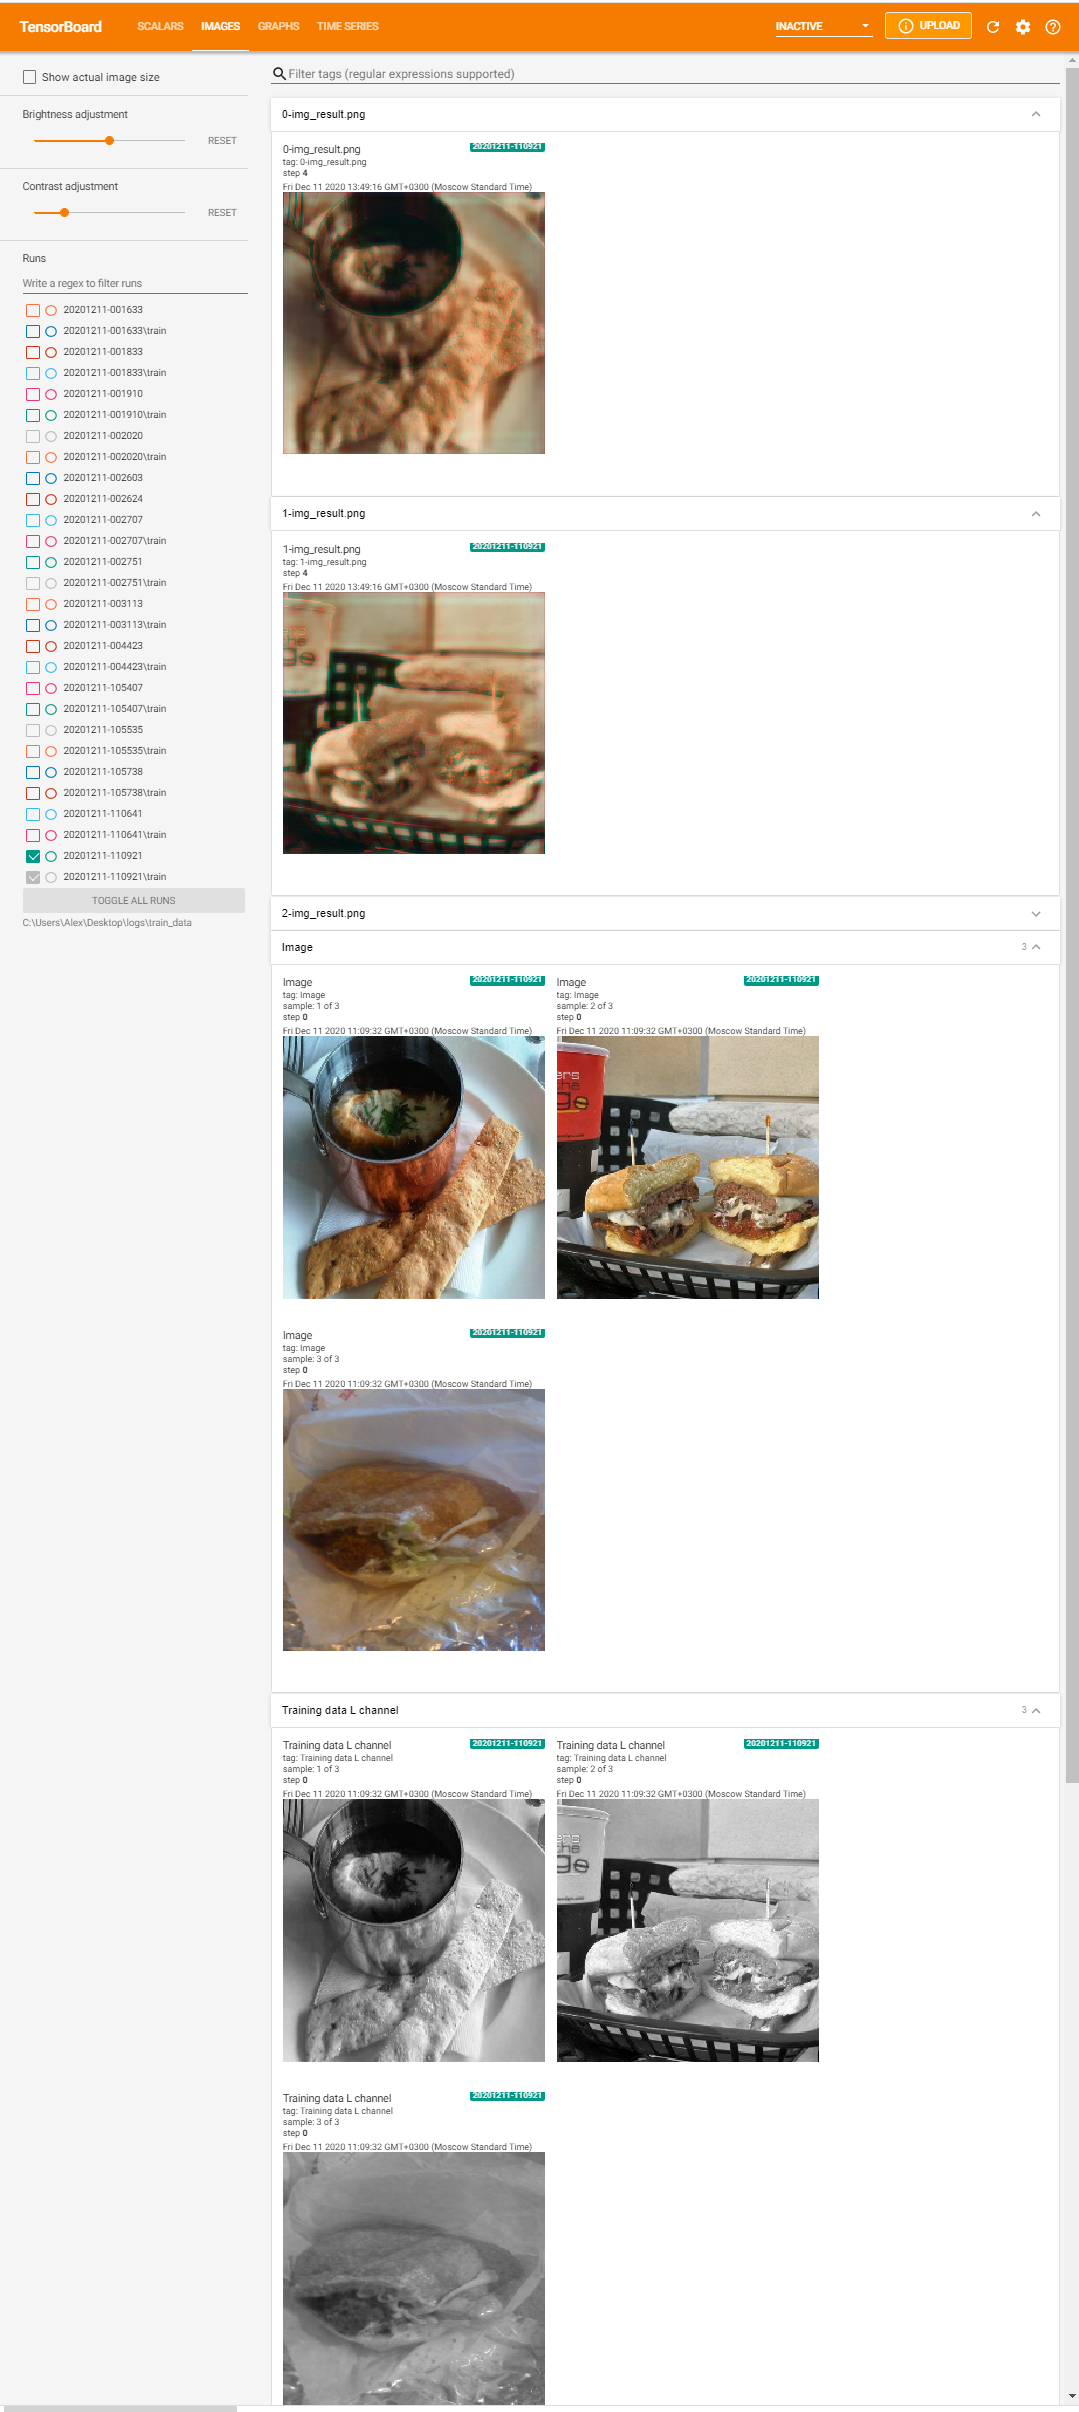
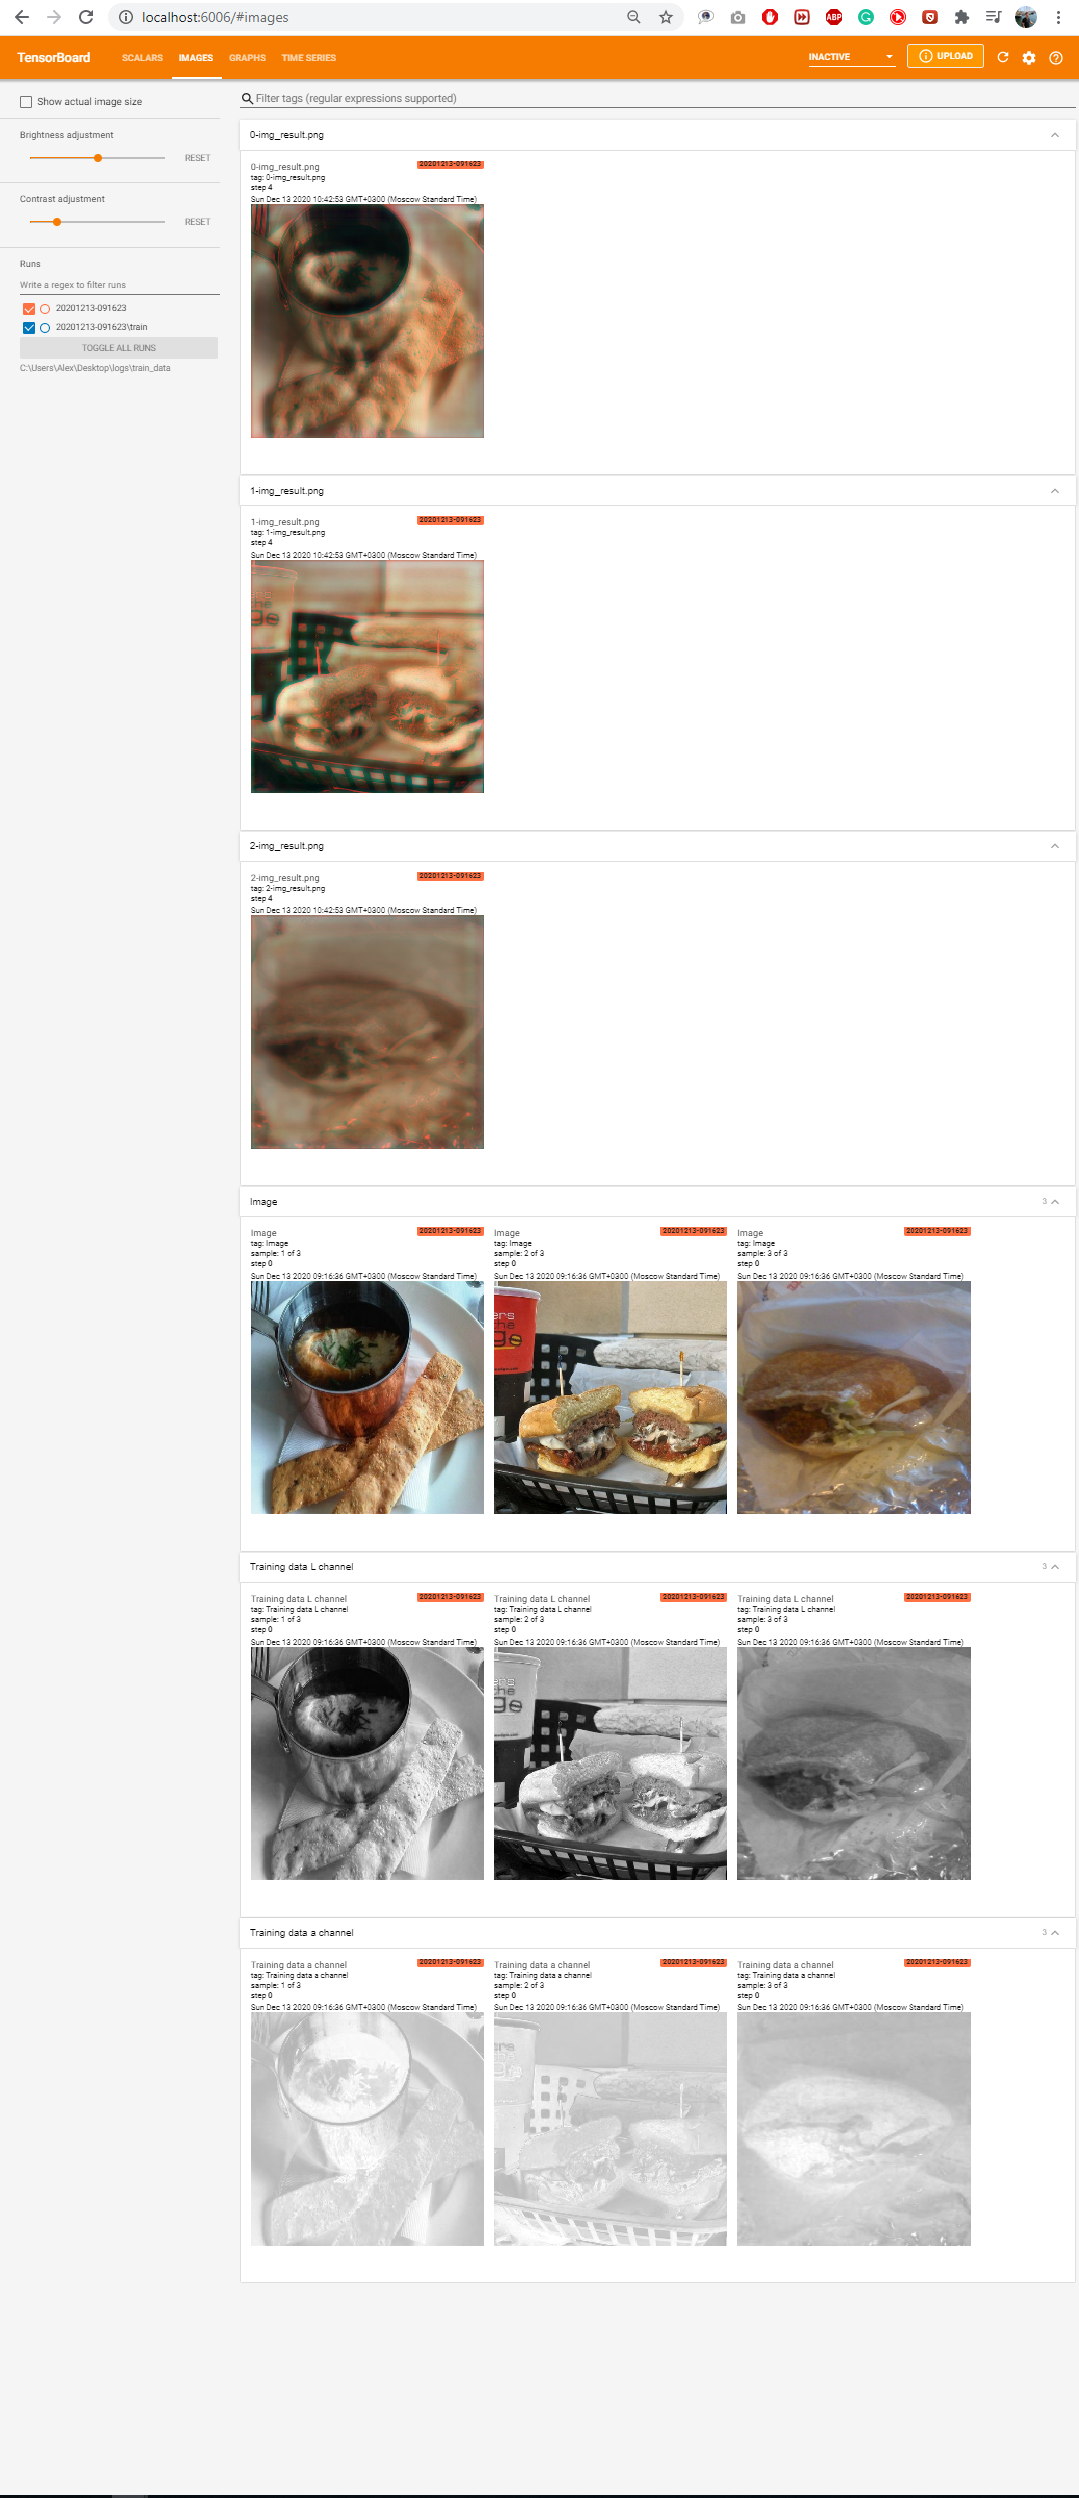
update images for lab2

diff --git a/lab2/src/train.py b/lab2/src/train.py
@@ -8,7 +8,7 @@ from datetime import datetime
 import tensorflow as tf
 import numpy as np
 from pathlib import Path
-from keras.layers import Conv2D, UpSampling2D, InputLayer
+from keras.layers import Conv2D, UpSampling2D, InputLayer, Conv2DTranspose, MaxPooling2D
 from keras.models import Sequential
 
 
@@ -69,19 +69,27 @@ def create_dataset(filenames, batch_size):
 
 def build_model():
     model = Sequential()
-    model.add(InputLayer(input_shape=(None, None, 1)))
-    model.add(Conv2D(1, (3, 3), activation='relu', padding='same', strides=2))
-    model.add(Conv2D(8, (3, 3), activation='relu', padding='same'))
-    model.add(Conv2D(16, (3, 3), activation='relu', padding='same'))
-    model.add(Conv2D(16, (3, 3), activation='relu', padding='same', strides=2))
-    model.add(Conv2D(32, (3, 3), activation='relu', padding='same'))
-    model.add(Conv2D(32, (3, 3), activation='relu', padding='same', strides=2))
+    model.add(InputLayer(input_shape=(224, 224, 1)))
+
+    model.add(Conv2D(1, (4, 4), activation='relu', padding='same'))
+    model.add(MaxPooling2D((2, 2), padding='same'))
+
+    model.add(Conv2D(32, (4, 4), activation='relu', padding='same'))
+    model.add(MaxPooling2D((2, 2), padding='same'))
+
+    model.add(Conv2D(64, (4, 4), activation='relu', padding='same'))
+    model.add(MaxPooling2D((2, 2), padding='same'))
+
+    model.add(Conv2DTranspose(128, (4, 4), activation='relu', padding='same'))
     model.add(UpSampling2D((2, 2)))
-    model.add(Conv2D(32, (3, 3), activation='relu', padding='same'))
+
+    model.add(Conv2DTranspose(128, (4, 4), activation='relu', padding='same'))
     model.add(UpSampling2D((2, 2)))
-    model.add(Conv2D(16, (3, 3), activation='relu', padding='same'))
+
+    model.add(Conv2DTranspose(64, (4, 4), activation='relu', padding='same'))
     model.add(UpSampling2D((2, 2)))
-    model.add(Conv2D(2, (3, 3), activation='tanh', padding='same'))
+
+    model.add(Conv2DTranspose(2, (4, 4), activation='relu', padding='same'))
 
     return model
 
@@ -121,7 +129,7 @@ def main():
     model.fit(
         x=x,
         y=y,
-        epochs=1000,
+        epochs=200,
         validation_data=validation_y.all(),
         callbacks=[
             tf.keras.callbacks.TensorBoard(log_dir),
